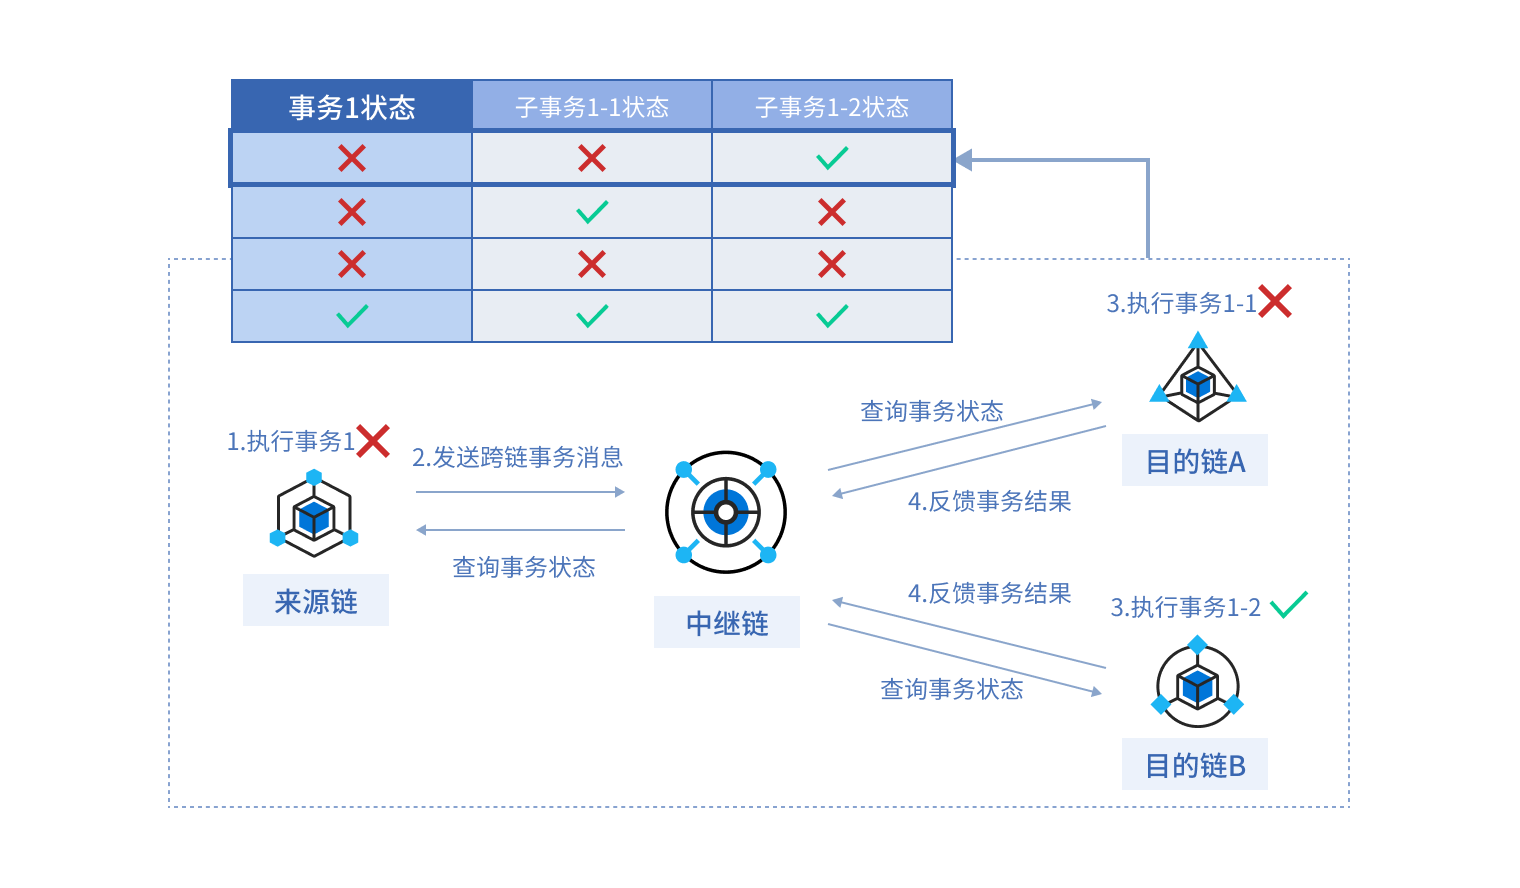
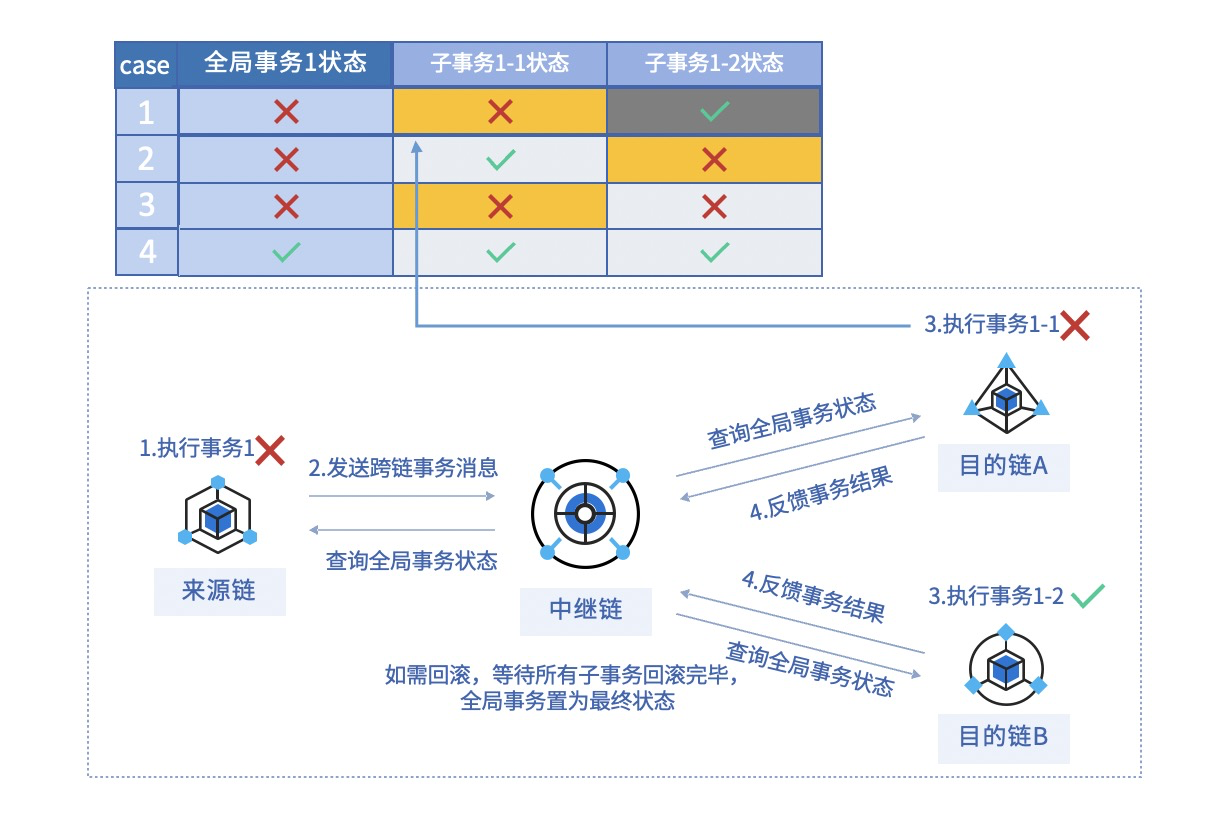
feat:add cross_counter.md
feat: add one2multi_transaction.md

feat: add proposal_manager.md

feat: update mkdocs.yml to support latex formula

Changed region(s): [[0.0916, 0.0303, 0.7632, 0.4248], [0.3053, 0.3034, 0.9158, 0.9102], [0.1221, 0.4854, 0.5495, 0.7585]]

diff --git a/docs/bitxhub/function/proposal_manager.md b/docs/bitxhub/function/proposal_manager.md
@@ -1,0 +1,106 @@
+# 提案管理
+
+首先，提案模型具有精简丰富的结构，囊括了治理过程中需要的各类信息；其次，提案的生命周期伴随着治理流程的推进而变化；此外，提案模型针对不同状态设置了不同的优先级，以进一步优化治理流程。接下来，就让我们围绕提案结构、提案生命周期、提案优先级策略这三大模块来一一解剖提案模型。
+
+## 1 提案结构
+
+当跨链平台上产生治理服务范围内的业务时，中继链一般会自动生成一个由业务发起人提交的相应类型提案，以供中继链管理员进行投票治理。提案结构基本涵盖了治理需要的所有关键信息：
+
+![!](../../assets/proposal.png)
+
+- **提案id**：与提案发起人账户地址绑定，作为提案的唯一标识；
+- **提案类型**：标识提案所属的治理服务类型，如应用链管理、验证规则管理等；
+- **事件类型**：标识提案中发生事件的类型，如注册、更新等；
+- **提案状态**：与提案的生命周期对应，有proposed、approved、rejected等状态；
+- **投票信息**：包含了该提案当前收到的投票信息、计票信息、超管投票信息等，便于推进提案的投票计票流程（计票流程与提案投票策略有关，将在本系列后续篇章中给出介绍）；
+- **选民信息**：包含了该提案面向的选民列表以及当前可用选民数、最低投票选民数等信息，便于推进提案的投票计票流程；
+- **治理对象信息**：包含了治理对象的id及其提案发起前状态，记录发起前状态是为了便于投票拒绝时的状态恢复；
+- **状态转换说明**：包含了提案的提交理由、结束理由、撤回理由等信息，便于相关人员了解提案的状态转换原因；
+- **提案锁定信息**：与提案优先级策略相关的锁定信息；
+- **扩展项**：可选项，可附加提案需要的相关信息，如更新提案可以添加更新前后对象的信息对比明细。
+
+
+
+## 2 提案生命周期
+
+提案的生命周期展示了一次治理操作的全流程。提案创建后一般会经历proposed、approved、rejected三个状态，特殊情况下还可能出现pause状态。
+
+具体而言，提案生命周期可以分正常投票、撤回、优先级锁定三种情况。
+
+### 2.1 正常投票
+
+![!](../../assets/normal-proposal.png)
+
+正常投票的提案提出后进入投票阶段，即proposed状态，通过投票表决进入到终止阶段，即投票通过为approved状态，投票不通过未rejected状态。
+
+### 2.2 撤回
+
+![!](../../assets/reject-proposal.png)
+
+提案在投票阶段进入proposed状态后，可能会被撤回，撤回又分为主动撤回和被动撤回。主动撤回是提案发起人有机会在提案未结束前发起撤回操作，提案进入终止阶段转换为rejected状态；被动撤回是提案因为系统原因被迫终止，主要有以下两种触发条件：
+
+（1）治理对象被系统清空。比如当一条应用链被注销后，该应用链相关的服务都会被系统自动注销清空，那么这些服务相关未完成的提案也就会被系统撤回进入终止阶段；
+
+（2）投票选民人数不足。每个提案面向的投票选民是提案生成时中继链上所有处于可用状态的治理管理员，在提案进行的过程中，可能有部分管理员被冻结或注销进入不可用状态，这就有可能会导致提案收到的选票数达不到最低门槛值（最低门槛值是提案能够进入终止阶段的一个必要条件，具体实现原理与BitXHub治理机制的投票策略相关，将在本系列后续篇章中给出介绍），当发生这种情况时，提案也会被系统自动撤回。
+
+### 2.3 优先级锁定
+
+优先级锁定与提案的优先级策略有关，将在下文进行详细阐述。
+
+根据以上几种情况的描述，我们会发现治理提案有多种不同的结束场景，为了便于发起人或管理员能够清楚地了解提案结束的原因，提案结构的 **状态转换说明信息** 中有一个 **提案结束理由** 字段将给出说明，该字段会在提案结束时由系统自动填充。
+
+## 3 提案优先级策略
+
+### 3.1 优先级设置
+
+基于提案的治理事件属性以及提案对跨链系统的影响范围考虑，BitXHub治理机制对不同治理事件的提案设置了优先级如下图所示：
+
+![!](../../assets/proposal-priority.png)
+
+不同的管理对象都可能发生注销、冻结、更新等治理事件，发起这些治理事件提案的同时，系统默认为这些治理提案设置了提案优先级。
+
+### 3.2 优先级锁定机制
+
+我们的提案优先级策略主要基于一个原则：**同一管理对象，同一时间只会存在一个进行中的提案。**
+
+实现以上原则的 **前提** 是，提案的优先级比较都是针对同一管理对象的，也就是相关联的提案才会有优先级比较，应用链注销和应用链更新是相关的提案，注销的优先级更高，不相关的提案，比如一个应用链注销的提案，是不会对节点更新产生任何影响的。
+
+在满足同一管理对象的前提下，实现上述原则的 **核心** 就是提案的优先级锁定机制：**高优先级提案进行中时，不可以发起低优先级提案，但低优先级提案进行时，可以发起高优先级提案，并高优先级提案的发起会锁定低优先级提案的进行。**
+
+具体的锁定方式如下图所示:
+
+![!](../../assets/proposal-lifecycle.png)
+
+当某个提案处于proposed状态投票阶段时，若出现更高优先级的提案，那么当前低优先级的提案会暂时进入锁定阶段，转换为pause状态，此时管理员无法对低优先级的提案进行处理——高优先级的提案如果通过可能会对当前管理对象产生重要影响，比如一个应用链注销的提案如果投票通过，那么同时进行的低优先级的应用链更新提案就没有必要再继续进行，此时低优先级提案的锁定状态就避免了可能出现的管理员无意义投票（管理员的投票是通过发交易来执行的，无意义的投票会浪费管理员的发交易成本）以及系统无意义执行（系统的无意义执行包括对管理员对象、提案状态的修改，这些修改都可能涉及对账本内容的修改，冗余的账本读写绘影响系统的运行效率）。
+
+如果高优先级提案投票通过，管理对象状态被改变，低优先级提案就失去了原本的意义，系统会直接结束低优先级提案；如果高优先级提案投票不通过，管理对象状态没有发生变化，低优先级提案恢复原先的proposed状态进入投票阶段。
+
+### 3.3 必要条件约束
+
+为了进一步保证高优先级提案处理的合理有效性，我们还对高优先级提案设置了一个额外的约束条件：针对高优先级的提案，包括非常紧急和紧急的提案，提案的通过除了需要普通管理员投票通过外，还需要得到系统超级管理员的投票。这一约束保证了高优先级提案能被及时处理的同时，还能得到更严谨合理的处理。
+
+
+
+## 4 提案管控流程及投票策略
+
+治理提案提交后需要由中继链管理员进行投票，中继链上的投票管控流程如图所示。
+
+![!](../../assets/proposal-control.png)
+
+投票管控流程主要分为投票和计票两个阶段。投票阶段由各个中继链管理员进行投票，管理员只能对未结束状态（即proposed状态）的提案进行投票，每个管理员只能投一次，但实际投出票数根据管理员的权重进行计算。计票阶段中继链会根据提案的当前投票情况和投票策略判断该提案是否达到结束要求（即通过或拒绝）。每次投票后都会进入计票阶段，若计票时发现提案达到结束要求将会触发相应的业务操作，反之，该提案将继续等待下一个管理员的投票。
+
+提案的投票策略支持多种策略灵活适配，即不同的治理服务可以设置不同的投票策略，投票策略主要包括以下三种类型：
+
+- 简单多数制：若当前赞成票数多则通过提案，反之则拒绝提案；
+- 绝对多数赞成制：在收到票数较少时，需要大量赞成票才可以通过；
+- 绝对多数反对制：在收到票数较少时，需要大量反对票才可以通过。
+
+绝对多数赞成制和绝对多数反对制支持投票策略的自适应调节，即投票率越低，需要的赞成或反对票数越少，当全员参与投票时，这两种策略均收敛为简单多数制。这种自适应调节可以有效保证提案通过与否的结果代表了群体多数意愿。
+
+## 5 总结
+
+如果说提案模型是一只灵巧的麻雀，那么提案结构就是它的五脏六腑，记录了治理流程中需要的各类信息；提案生命周期就是这只麻雀生老病死的流程，体现了治理流程中各个阶段的推进；提案优先级策略则是这只麻雀的思想和灵魂，让它可以更好地走完这一生——在治理机制中，就是协助管理员和系统对于同一个管理对象只能处理最高优先级的提案，保证BitXHub治理提案投票的便捷有效性和提案执行的合理高效性，从而保证治理流程能够更加方便高效地进行。
+
+但需要注意的是，并非治理机制中所有的治理操作都需要提案模型，一些优先级极低的治理操作可能是不需要提案的，比如更新应用链描述，应用链的描述只是一个展示信息，并不需要中继链治理管理员的严格审核，这种情况下，应用链管理员提交更新请求后即可直接更新，并不会有提案产生。
+
+五脏俱全的提案模型承载着每一次治理流程的行进，也真正赋予BitXHub跨链治理机制以核心动力。

diff --git a/docs/bitxhub/design/cross_counter.md b/docs/bitxhub/design/cross_counter.md
@@ -1,0 +1,139 @@
+## 1. 设计方案
+
+利用Broker合约的Counter与中继链内置合约Interchain合约的Counter维护应用链与中继链的跨链事务一致性。网关作为无状态不存储任何信息，网关重启后recovery逻辑依靠两边的Counter进行遗留交易的拉取。
+
+## 2.Counter处理机制
+
+**中继链counter记录数据结构：**
+
+```go
+type Interchain struct {
+	// 跨链服务ID
+	ID                      string
+	// 作为来源服务，向不同目的服务发送的跨链交易个数
+	InterchainCounter       map[string]uint64
+	// 作为来源服务，收到的不同目的服务发来的回执的个数
+	ReceiptCounter          map[string]uint64
+	// 作为目的服务，收到的不同来源服务发来的跨链交易个数
+	SourceInterchainCounter map[string]uint64
+	// 作为目的服务，向不同来源服务发送的回执的个数
+	SourceReceiptCounter    map[string]uint64
+}
+```
+
+**Broker合约Counter记录数据结构：**
+
+```go
+contract Broker {
+    // 作为来源链发出的跨链事务Interchain
+	mapping(string => uint64) outCounter;
+    // 作为来源链收到的跨链事务Receipt
+    mapping(string => uint64) callbackCounter;
+    // 作为目的链收到的跨链事务Interchain
+    mapping(string => uint64) inCounter;
+    // 记录最新回滚的跨链事务的index
+    mapping(string => uint64) dstRollbackCounter;
+    ……
+}
+```
+
+### 2.1 Counter配平原则
+
+**中继链->中继链：**
+
+$$中继链[From]To:InterchainCounter=中继链[To]From:SrcInterchainCounter$$
+
+$$中继链[To]From:SrcReceiptCounter=中继链[From]To:ReceiptCounter$$
+
+
+
+**来源链->中继链：**
+
+$$来源链To:OutCounter=中继链[From]To:InterchainCounter$$
+
+$$中继链[To]From:SrcReceiptCounter=来源链的To:CallbackCounter$$
+
+
+
+**中继链->目的链：**
+
+$$中继链[From]To:InterchainCounter=目的链的InCounter$$
+
+### 2.2 正常Counter处理机制
+
+如下图所示，以一个具体的跨链交易为例：
+
+1. 来源链发起一笔跨链交易，来源链的OuterCounter+1;
+2. 中继链收到跨链交易，中继链的From的InterchainCounter+1， To的SrcInterchainCounter +1；目的链收到跨链交易，目的链borker合约的Incouter+1；
+3. 目的链抛出回执跨链事件，中继链收到回执跨链交易，中继链的From的ReceiptCounter+1， To的SrcReceiptCounter +1;
+4. 来源链收到回执跨链交易，From的CallBackCounter+1。
+
+![!](../../assets/counter1.png)
+
+### 2.3 Recover机制
+
+#### 2.3.1 中继链未收到来源链的Interchain
+
+此时的情况是：
+
+1. 来源链的OutCounter > 中继链[From]To:InterchainCounter；
+2. 网关去来源链请求缺失的交易，来源链根据OutMessage信息还原该跨链交易；
+3. 来源链重新发送至中继链，中继链[From]To:InterchainCounter与中继链[To]SrcInterchainCounter +1。则两边的Counter得到配平。
+
+![!](../../assets/counter2.png)
+
+#### 2.3.2 目的链未收到中继链的Interchain
+
+此时的情况是：
+
+1. 中继链[To]From:SrcInterchainCounter > 目的链的InCouter；
+2. 网关去中继链请求缺失的交易，中继链根据账本还原该跨链交易；
+3. 中继链重新发送至目的链，目的链InCounter+1。则两边的Counter得到配平。
+
+![!](../../assets/counter3.png)
+
+
+
+#### 2.3.3 中继链未收到目的链的Receipt
+
+此时的情况是：
+
+1. 目的链InCounter > 中继链[To]From:SrcReceiptCounter；
+2. 网关去目的链请求缺失的交易，目的链根据ReceiptMessage还原该跨链交易；
+3. 目的链重新发送至中继链，中继链[To]From:SrcReceiptCounter+1。则两边的Counter得到配平。
+
+![!](../../assets/counter4.png)
+
+#### 2.3.4 来源链链未收到中继链的Receipt
+
+此时的情况是：
+
+1. 中继链[From]To:ReceiptCounter > 来源链CallBackCounter；
+2. 网关去中继链请求缺失的交易，中继链根据账本还原该跨链交易；
+3. 中继链重新发送至来源链，来源链CallBackCounter+1。则两边的Counter得到配平。
+
+![!](../../assets/counter5.png)
+
+### 2.4  异常情况Counter处理机制
+
+#### 2.4.1 超时回滚
+
+如果长时间未收到目的链的回执信息，将触发超时回滚，中继链通知来源链进行回滚操作，如果此时该链路断开导致该回滚通知未收到。
+
+此时的情况是：
+
+1. 中继链[From]To:ReceiptCounter = 来源链CallBackCounter；
+2. 中继链[From]To:InterchainCounter > 中继链[From]To:ReceiptCounter
+3. 网关去中继链请求该交易，中继链根据账本还原该跨链交易；
+4. 如果该交易的事务状态是正常（Begin）暂不处理，如果是待回滚（Begin_Rollback），网关将该交易重新发送至来源链；
+5. 来源链根据事务状态进行回滚，回滚完毕将CallBackCounter+1。
+
+注意，此时CallBackCounter > 中继链的ReceiptCounter，虽然没有达到配平，但是如果目的链的交易延迟到达中继链，中继链的ReceiptCounter会正常+1(根据事务状态不必将其转发至来源链)。因此最终CallBackCounter与ReceiptCounter会配平。
+
+![!](../../assets/counter6.png)
+
+#### 2.4.2 目的链服务未注册
+
+与2.4.1类似，中继链需要通知来源链进行回滚，如果此时该链路断开导致该回滚通知未收到，处理逻辑与2.4.1一致。
+
+值得注意的是，由于中继链的InterchainCounter > ReceiptCounter，并且来源链回滚完毕后，CallBackCounter也会+1，为了让ReceiptCounter+1，中继链仍然会将交易发送至目的链。但是由于该交易目的链并未执行，因此不需要回滚。只需要将目的链的InCounter+1即可。

diff --git a/docs/bitxhub/design/one2multi_transaction.md b/docs/bitxhub/design/one2multi_transaction.md
@@ -1,0 +1,96 @@
+# <a name="one2multiAnchor">一对多跨链事务方案</a>
+
+一对多跨链是指，在一个来源链的业务合约的交易中，抛出了多个指向不同目的链或不同目的链服务的跨链事件。 一对多跨链和一对一跨链的整体流程一样，只是其中事务分为全局事务和子事务的概念：
+
+- 子事务：指来源链和某个目的链的跨链事务
+- 全局事务：综合各个子事务的整体事务
+
+两者的关系如下：
+
+1. 全局事务状态异常 => 所有子事务均需要回滚；
+2. 所有子事务状态转换为统一的最终状态 => 全局事务状态转换为最终状态；
+3. 全局事务状态未达到最终状态 => 子事务状态未达到最终状态。
+
+全局事务的异常变更将改变所有子事务状态，子事务状态异常也将变更全局事务状态：
+
+1. 子事务状态有一笔异常 => 全局事务状态为异常；
+2. 子事务状态成功，全局事务状态异常 => 所有子事务状态异常。
+
+![](../../assets/multi_interchain_tx_manager.png)
+
+上图中黄色表格代表子事务触发全局事务状态由正常变为异常，事务处理如下：
+
+1. 将全局事务与当前所收到的所有子事务置为待回滚状态；
+2. 对于当前所有收到的子事务通知来源链回滚；
+3. 对于当前事务通知来源链目的链回滚。
+
+如果子事务返回成功回执结果，但此时全局事务已经为异常状态（如图中灰色的表格），针对该子事务处理如下：
+
+1. 如果是从来源链发送的子事务，通知当前子事务来源链回滚，目的链更新事务信息；
+2. 如果是从目的链发送的成功子事务回执，通知当前子事务来源链目的链回滚。
+
+
+
+## 全局事务状态转换流程
+
+对于全局事务状态转换图如下：
+
+![one2multi_global_state](../../assets/one2multi_global_state.png)
+
+### Init -> Begin
+
+收到第一笔正常的子IBTP，GlobalState变为Begin，超时块高为第一笔IBTP所在块高+超时块高。
+
+### Init -> Begin_fail 
+
+收到**第一笔子IBTP将校验所有子IBTP的目的链服务注册情况**，因此，如果其中有目的链校验不通过的情况，收到的第一笔子IBTP就将GlobalState置为待回滚状态Begin_fail，并通知来源链目的链回滚**当前的子IBTP**。
+
+### Begin -> Begin_fail
+
+初始状态为Begin，如果收到其中某一笔失败的回执，此时将GlobalState置为待回滚状态Begin_fail，
+
+### Begin -> Begin_rollback
+
+并未在超时块高达到之前收到所有子IBTP的成功回执，进入待回滚状态（Begin_Rollback），并把所有子IBTP置为待回滚状态（无论之前的子事务是否收到成功的回执）。
+
+### Begin_fail -> Fail 
+
+所有子IBTP均收到Receipt_Fail的回执。
+
+### Begin -> Success
+
+所有子IBTP均收到Receipt_Success的回执。
+
+### Begin_Rollback -> Rollback
+
+所有子IBTP均收到Receipt_RollBack的回执。
+
+
+
+## 子事务状态转换流程
+
+![one2multi_child_state](../../assets/one2multi_child_state.png)
+
+### Init -> Begin
+
+校验通过，并且GlobalState为Begin，\如果没有GlobalState，说明是第一个到达的子IBTP，创建GlobalID，并将GlobalState置为Begin。
+
+### Init -> Begin_fail
+
+如果当前的目的链校验不通过。或者GlobalState已经为Begin_fail，此时当前的子IBTP即使校验通过，状态也必须与GlobalState一致，为Begin_fail，通知来源链与目的链回滚**当前的IBTP（因为所记录的其他IBTP已经被通知回滚了）**。
+
+### Init -> Begin_Rollback
+
+如果在GlobalState为Begin_Rollback后，子IBTP的Interchain才到达中继链。将由Init变为Begin_Rollback。（**TODO：check一下如果该IBTP目的链校验失败的场景）**
+
+### Begin -> Fail
+
+该子IBTP在目的链执行失败，返回Receipt_Fail，此时中继链的子事务状态由Begin变为Fail，GlobalState变为Begin_Fail。
+
+### Begin -> Begin_Rollback
+
+一般不会由子事务触发，中继链根据记录的超时块高（该超时块高开始于第一个到达中继链节点的子事务），在某个时间点触发所有的子IBTP由Begin变为BeginRollback。
+
+### Begin_Rollback -> Rollback
+
+中继链收到目的链类型为Receipt_RollBack的回执信息。或者收到目的链类型为Receipt_Fail的回执信息。如果所有的子IBTP都从Begin_Rollback转换为Rollback，GlobalState也从Begin_Rollback转换为Rollback。
